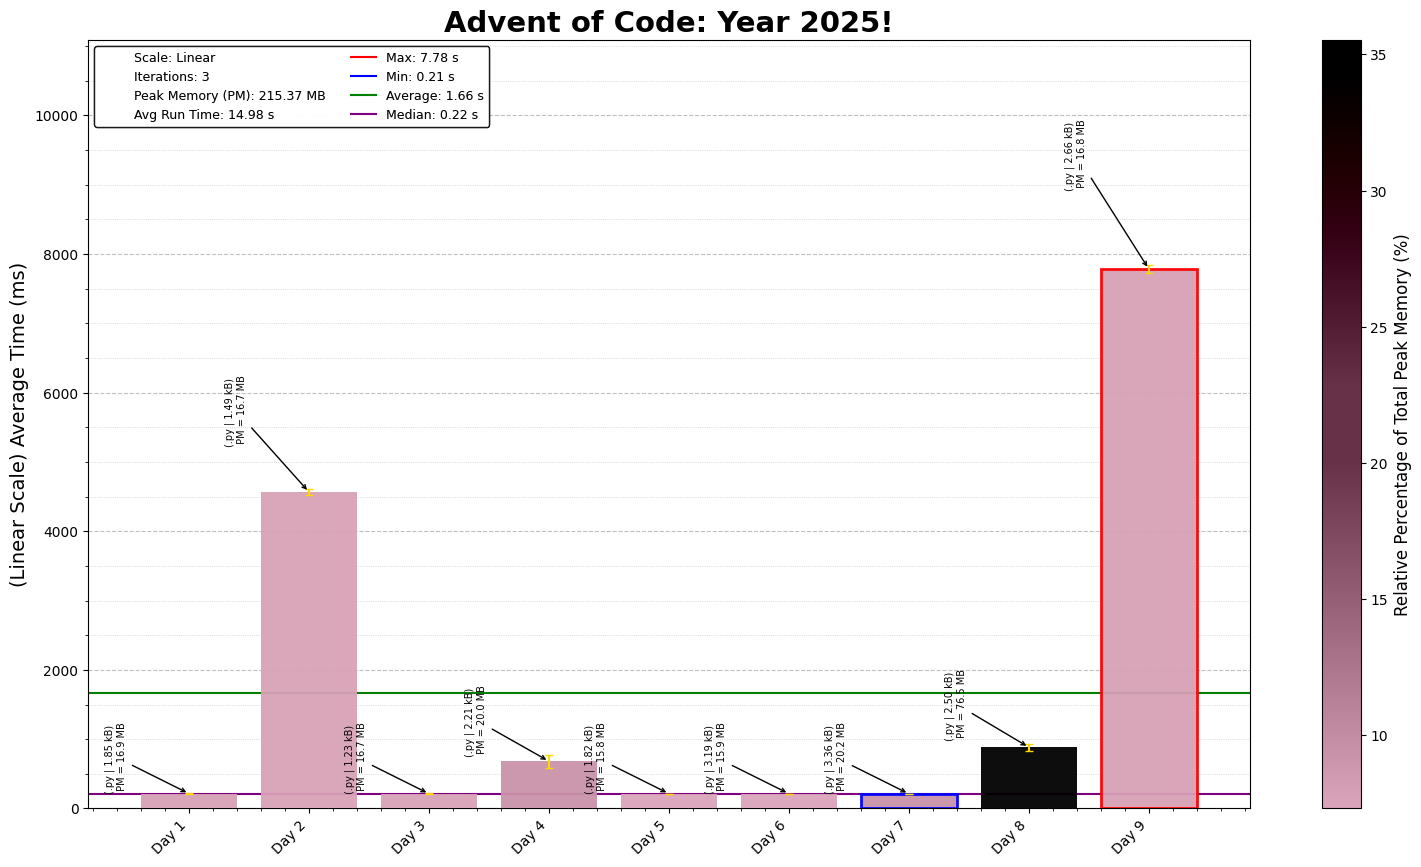
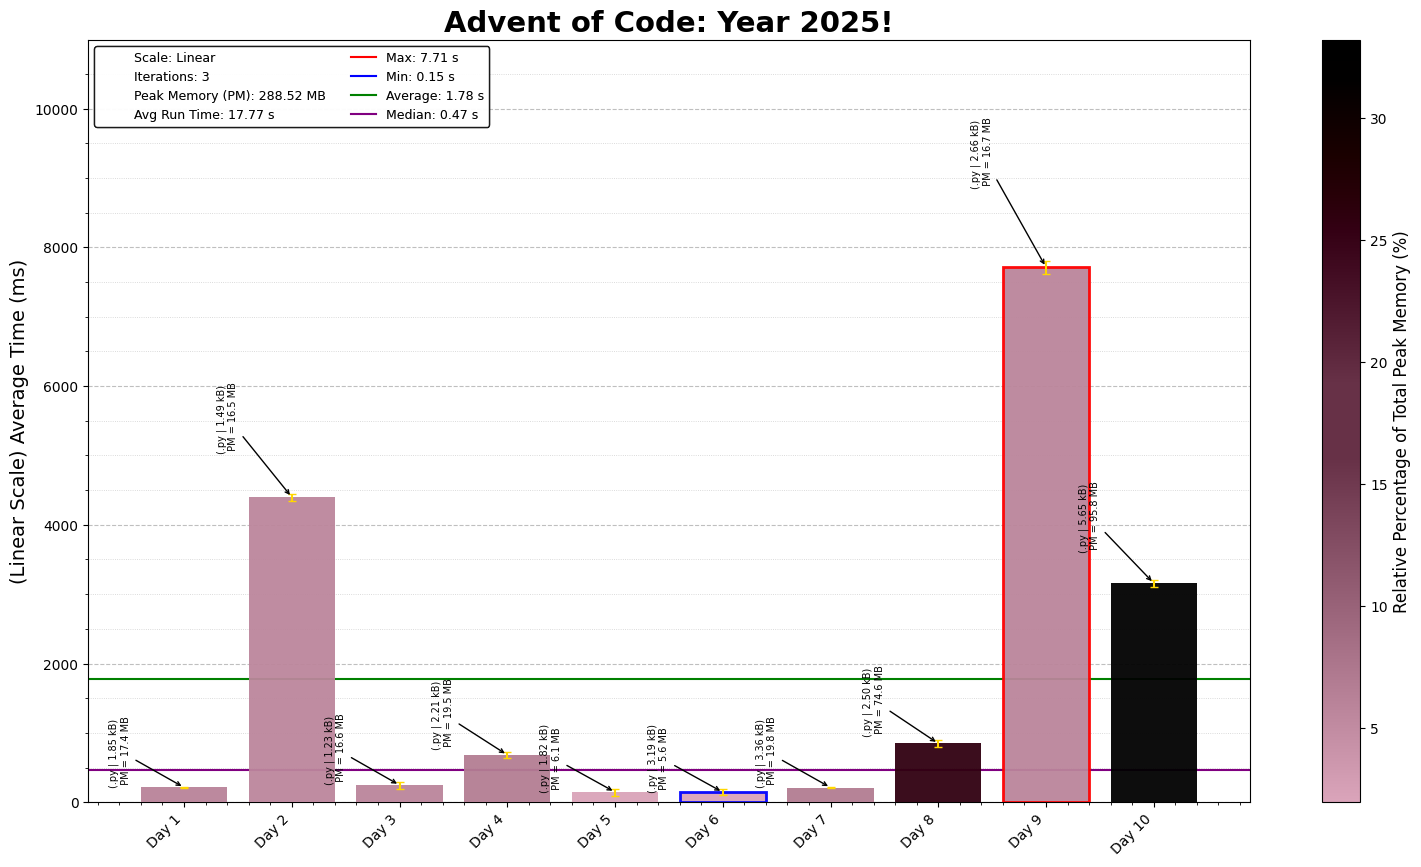
AOC 2025 Day 10: Factory

diff --git a/2025/10/2025Day10.py b/2025/10/2025Day10.py
@@ -1,0 +1,146 @@
+"""Advent of Code - Day 10, Year 2025
+Solution Started: December 10, 2025
+Puzzle Link: https://adventofcode.com/2025/day/10
+Solution by: Abbas Moosajee
+Brief: [Factory]"""
+
+#!/usr/bin/env python3
+import re
+from pathlib import Path
+from z3 import Int, Optimize, sat
+from collections import deque, Counter
+
+# Load input file
+input_file = "Day10_input.txt"
+input_path = Path(__file__).parent / input_file
+
+with input_path.open("r", encoding="utf-8") as f:
+    data = f.read().splitlines()
+
+class AOC_Factory:
+    def __init__(self, factory_info):
+        self.factory_info = factory_info
+
+    def parse_data(self, machine):
+        # Extract groups by bracket type
+        square = re.findall(r'\[.*?\]', machine)[0].strip("[]")
+        square_bin = []
+        for light in square:
+            light_val = 0
+            if light == '#':
+                light_val = 1
+            square_bin.append(light_val)
+
+        rounds = [tuple(map(int, x.strip("()").split(",")))
+                    for x in re.findall(r'\(.*?\)', machine)]
+
+        curly = list(map(int, re.findall(r'\{(.*?)\}', machine)[0].split(",")))
+        return tuple(square_bin), rounds, curly
+
+    def match_lights(self):
+        total_presses = 0
+        for machine_no, machine_data in enumerate(self.factory_info[:]):
+            target_lights, schematics, _ = self.parse_data(machine_data)
+            init_lights = [0] * len(target_lights)
+            queue = deque(([press], init_lights) for press in schematics)
+            visited = set()
+            while queue:
+                buttons_hist, current_lights = queue.popleft()
+                press_now = buttons_hist[-1]
+                button_set = tuple(sorted(buttons_hist))
+                if button_set in visited:
+                    continue
+                visited.add(button_set)
+                new_lights = current_lights.copy()
+                for press in press_now:
+                    new_lights[press] = 1 - current_lights[press]
+                if tuple(new_lights) == target_lights:
+                    # print(machine_no, len(buttons_hist))
+                    total_presses += len(buttons_hist)
+                    break
+                for next_button in schematics:
+                    if next_button == press_now:
+                        continue
+                    queue.append((buttons_hist + [next_button], new_lights.copy()))
+        return total_presses
+
+    def match_joltage_basic(self):
+        total_presses = 0
+        for machine_no, machine_data in enumerate(self.factory_info[:]):
+            _, schematics, target_jolts = self.parse_data(machine_data)
+            init_jolts = [0] * len(target_jolts)
+            queue = deque(([press], init_jolts) for press in schematics)
+            visited = set()
+            while queue:
+                buttons_hist, current_jolts = queue.popleft()
+                press_now = buttons_hist[-1]
+                button_set = tuple(sorted(buttons_hist))
+                if button_set in visited:
+                    continue
+                visited.add(button_set)
+                new_jolts = current_jolts.copy()
+                for press in press_now:
+                    new_jolts[press] += 1
+                if tuple(new_jolts) == target_jolts:
+                    print(machine_no, len(buttons_hist))
+                    total_presses += len(buttons_hist)
+                    break
+                for next_button in schematics:
+                    if next_button == press_now:
+                        continue
+                    queue.append((buttons_hist + [next_button], new_jolts.copy()))
+        return total_presses
+
+    def match_joltage_with_z3(self):
+        total_presses = 0
+
+        for machine_no, machine_data in enumerate(self.factory_info):
+            _, schematics, target_jolts = self.parse_data(machine_data)
+
+            # Normalize target and get number of slots
+            n_slots = len(target_jolts)
+
+            # Build delta vectors: for each schematic press, how much it increments each slot
+            deltas = []
+            for press in schematics:
+                # press may be something like (1,3) or [2] etc.
+                c = Counter(press)
+                vec = [c[i] for i in range(n_slots)]
+                deltas.append(vec)
+
+            # Create z3 Int variables: count_p >= 0 for each schematic
+            num_presses = len(deltas)
+            counts = [Int(f"c_{i}") for i in range(num_presses)]
+
+            opt = Optimize()
+
+            # Non-negativity constraints (counts are integers >= 0)
+            for v in counts:
+                opt.add(v >= 0)
+
+            # For each slot i: sum_j (deltas[j][i] * counts[j]) == target[i]
+            for i in range(n_slots):
+                opt.add(sum(deltas[j][i] * counts[j] for j in range(num_presses)) == target_jolts[i])
+
+            # Minimize total presses
+            total_var = sum(counts)
+            opt.minimize(total_var)
+
+            # Check and extract model
+            if opt.check() == sat:
+                m = opt.model()
+                # sum up counts as integers
+                machine_total = sum(m[v].as_long() for v in counts)
+                # print(machine_no, machine_total)
+                total_presses += machine_total
+            else:
+                # unsatisfiable: no combination of schematic presses reaches target
+                print(machine_no, "UNSAT")
+                # you can decide to raise or skip; here we skip adding presses
+
+        return total_presses
+
+
+factory = AOC_Factory(data)
+print("AOC Day 10, P1:", factory.match_lights())
+print("AOC Day 10, P2:", factory.match_joltage_with_z3())

diff --git a/2025/README_2025.md b/2025/README_2025.md
@@ -13,3 +13,4 @@ This repository contains coding solutions for the 2025 Advent of Code.
 7. **Day 7 - Laboratories**: *Python* | BFS and DFS, the good ole AOC algorithms back to use.
 8.**Day 8 - Playground**: *Python* | Union find is the name of the game.
 9. **Day 9 - Movie Theater**: *Python* | Identify the largest rectangles by area from a s group of coordinates.
+10. **Day 10 - Factory**: *Python* | BFS for buttons, and then add some z3 in
